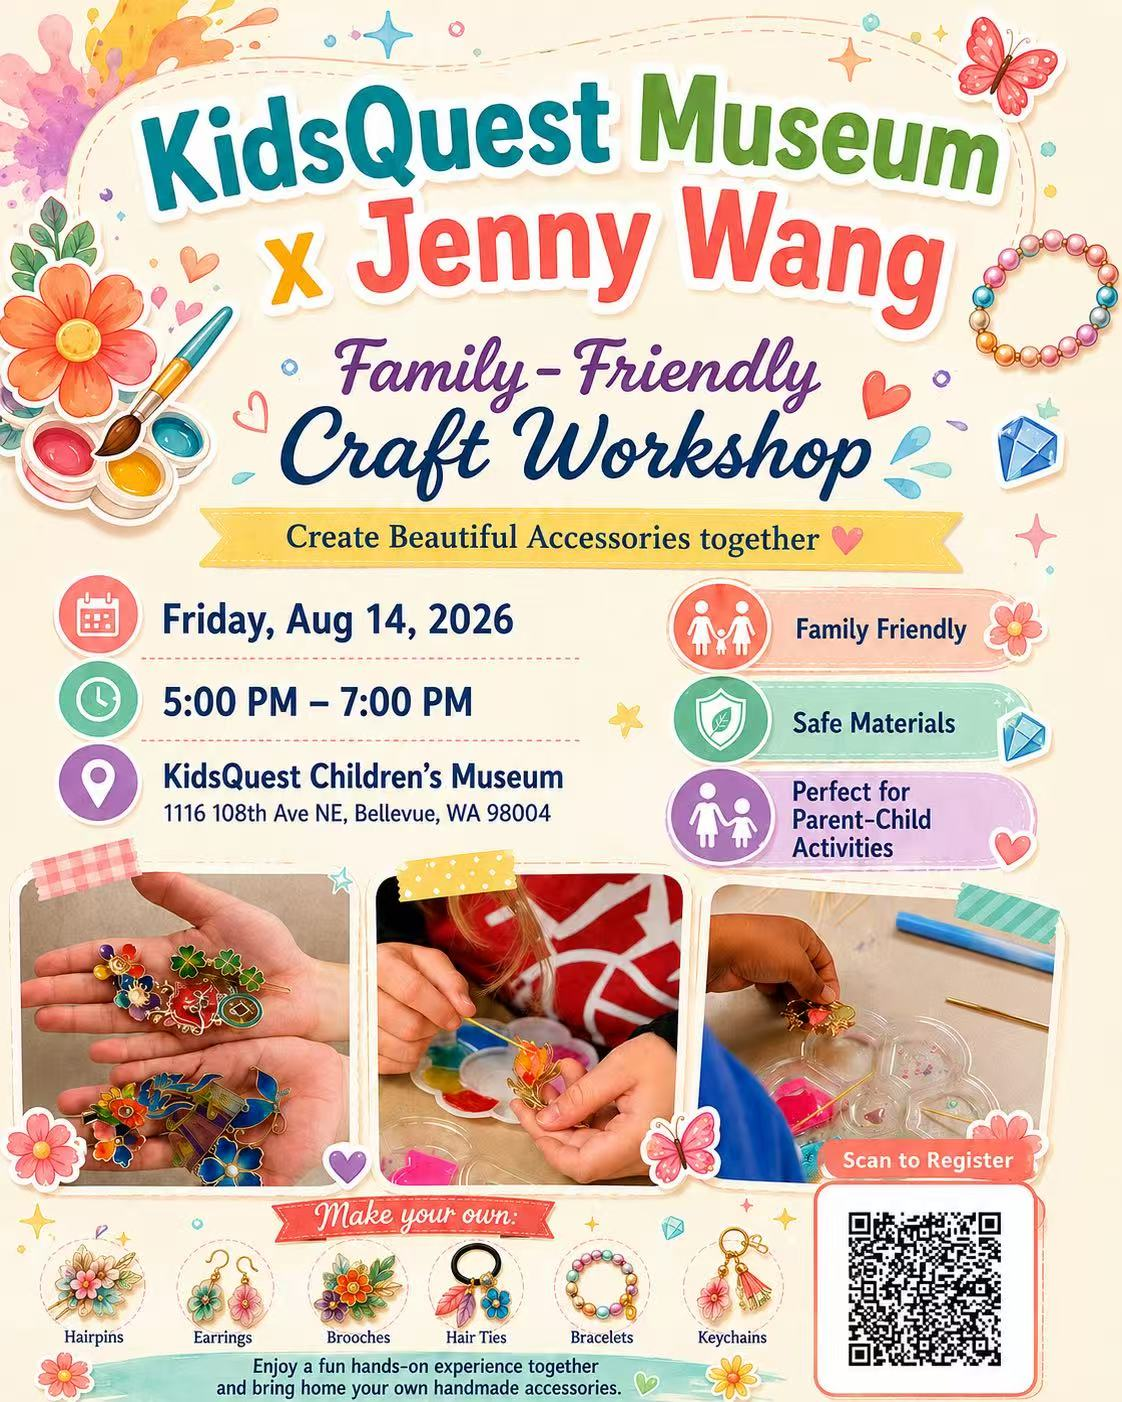
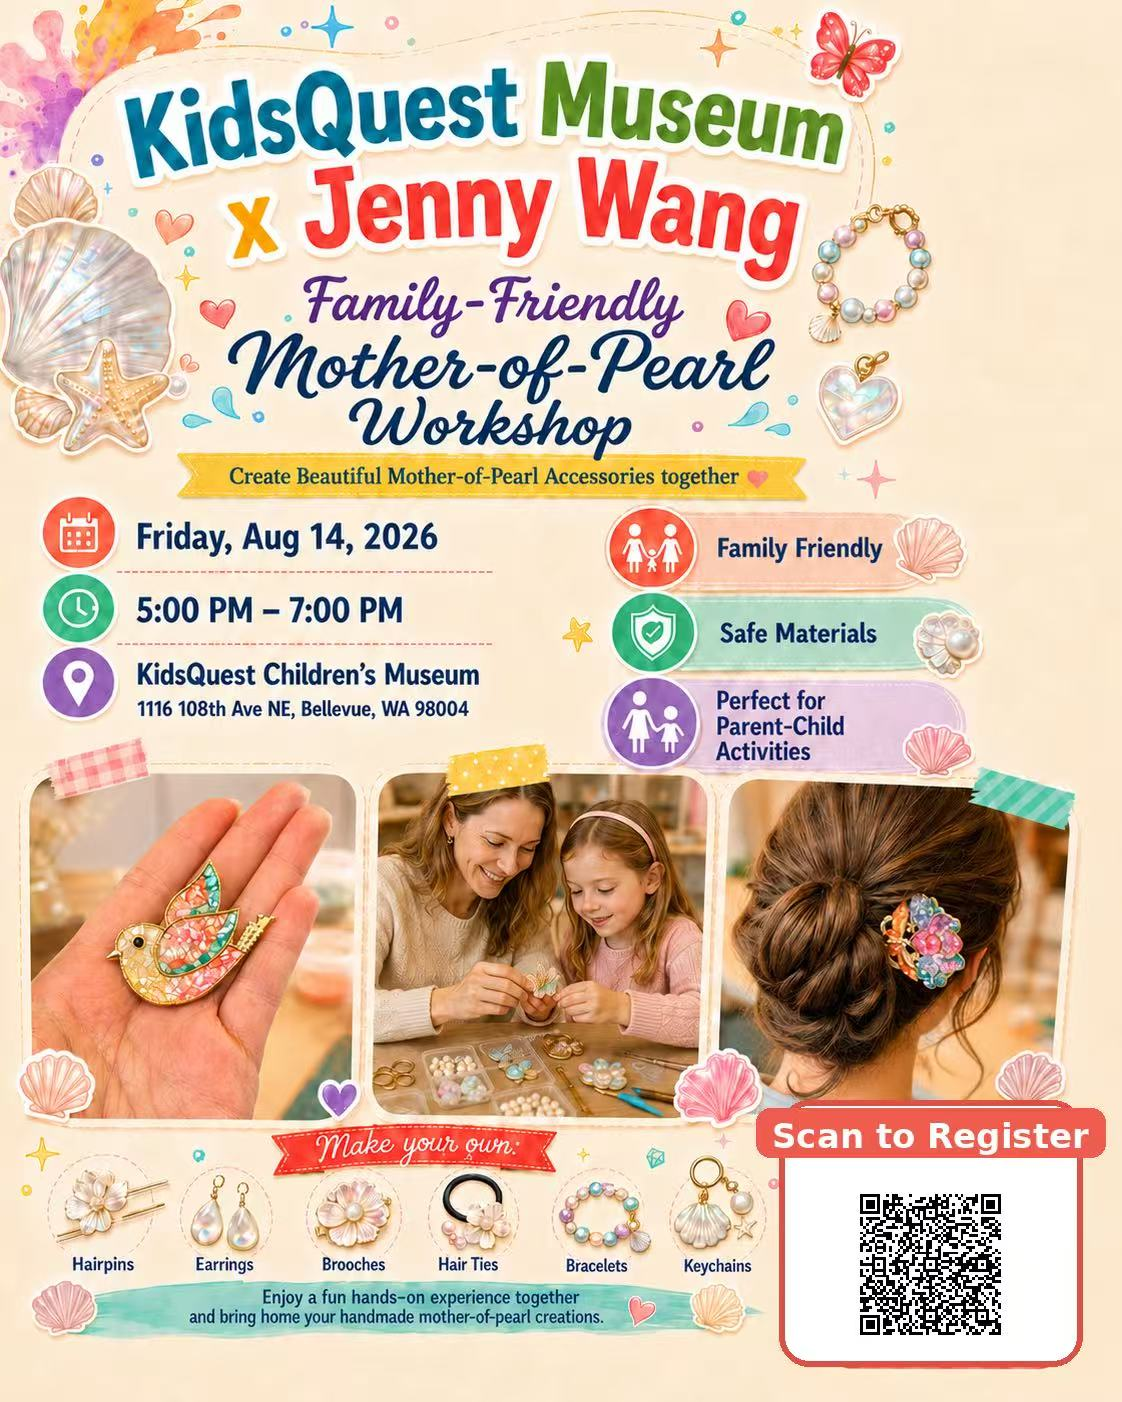
Rename KidsQuest workshops and swap Aug 14 poster
- Jul 31: Family-Friendly Cloisonné Craft Workshop
- Aug 14: Family-Friendly Mother-of-Pearl Workshop (new Mother-of-Pearl poster)

diff --git a/index.html b/index.html
@@ -417,7 +417,7 @@
     <!-- KidsQuest × Jenny Wang — July 31 -->
     <article class="card">
       <div class="card-num">Workshop 02</div>
-      <h2>KidsQuest × Jenny Wang: Family-Friendly Craft Workshop</h2>
+      <h2>Family-Friendly Cloisonné Craft Workshop</h2>
       <div class="sep"></div>
       <div class="meta">
         <div class="meta-row">
@@ -430,13 +430,13 @@
         </div>
       </div>
       <a class="btn-register" href="https://buy.acmeticketing.com/orders/571/tickets?cart=true&amp;date=2026-07-31T00:00:00-0700&amp;eventId=6a3c4bfc5a7faa83f85d18f5&amp;membershipIds=" target="_blank" rel="noopener">Register Now</a>
-      <div class="card-promo"><img src="img-kidsquest-jul31.jpg" alt="KidsQuest × Jenny Wang Family-Friendly Craft Workshop"></div>
+      <div class="card-promo"><img src="img-kidsquest-jul31.jpg" alt="Family-Friendly Cloisonné Craft Workshop"></div>
     </article>
 
     <!-- KidsQuest × Jenny Wang — August 14 -->
     <article class="card">
       <div class="card-num">Workshop 03</div>
-      <h2>KidsQuest × Jenny Wang: Family-Friendly Craft Workshop</h2>
+      <h2>Family-Friendly Mother-of-Pearl Workshop</h2>
       <div class="sep"></div>
       <div class="meta">
         <div class="meta-row">
@@ -449,7 +449,7 @@
         </div>
       </div>
       <a class="btn-register" href="https://buy.acmeticketing.com/orders/571/tickets?cdEventIds=6a3c4bfc5a7faa83f85d18f5&amp;date=2026-08-14T00:00:00-0700&amp;eventId=6a3c4bfc5a7faa83f85d18f5" target="_blank" rel="noopener">Register Now</a>
-      <div class="card-promo"><img src="img-kidsquest-aug14.jpg" alt="KidsQuest × Jenny Wang Family-Friendly Craft Workshop"></div>
+      <div class="card-promo"><img src="img-kidsquest-aug14.jpg" alt="Family-Friendly Mother-of-Pearl Workshop"></div>
     </article>
 
     <!-- 4 -->
